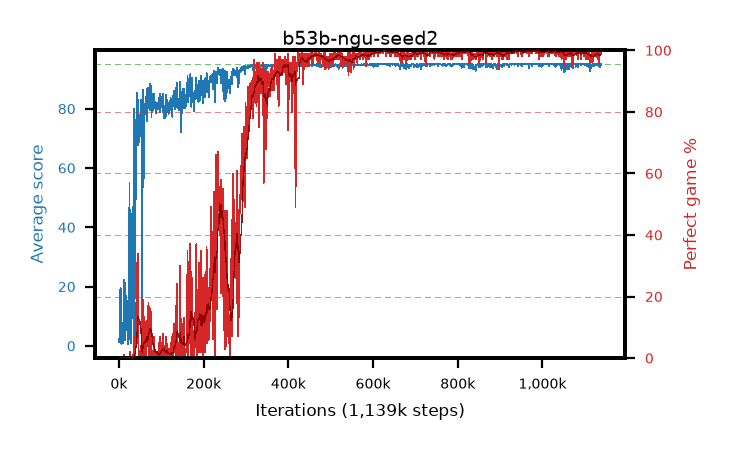
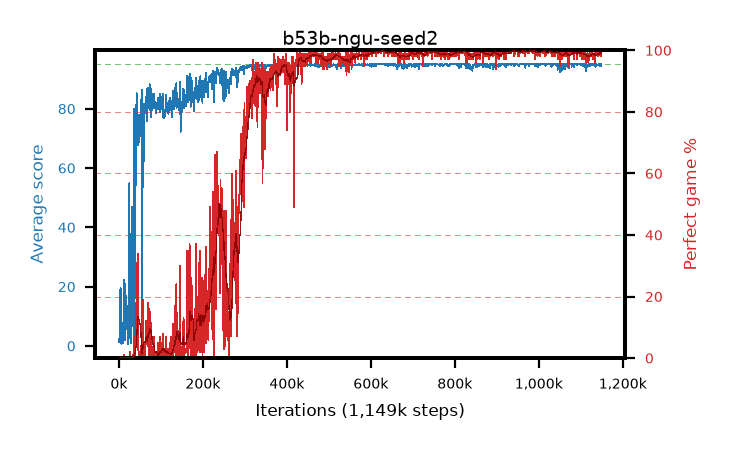
live pictures of 4 arm(s)

diff --git a/results/b53d-ngu-seed4/b53d-ngu-seed4.md b/results/b53d-ngu-seed4/b53d-ngu-seed4.md
@@ -1,6 +1,6 @@
 # b53d-ngu-seed4
 
-step **1,149,000** · 1149 evals · trailing **94.76** · peak **94.94** @1,040,000 · sef **73.7** · best30 **99.7** @1,024,000
+step **1,159,000** · 1159 evals · trailing **94.73** · peak **94.94** @1,040,000 · sef **73.9** · best30 **99.7** @1,024,000
 
 ## Config
 
@@ -80,15 +80,15 @@ step **1,149,000** · 1149 evals · trailing **94.76** · peak **94.94** @1,040,
 | 2000 | 2.39 | 1.47 | 0.0 | 8.0 | 1.286 | 0.0 | 0.4 |
 | 3000 | 6.99 | 3.31 | 0.0 | 25.0 | 5.34 | 0.0 | 0.4 |
 | ... | ... | ... | ... | ... | ... | ... | ... |
-| 1138000 | 94.97 | 94.76 | 92.0 | 95.0 | 192.686 | 99.0 | 0.4 |
-| 1139000 | 94.63 | 94.74 | 58.0 | 95.0 | 192.335 | 99.0 | 0.4 |
-| 1140000 | 94.61 | 94.73 | 56.0 | 95.0 | 192.272 | 99.0 | 0.4 |
-| 1141000 | 95.0 | 94.73 | 95.0 | 95.0 | 193.71 | 100.0 | 0.4 |
-| 1142000 | 95.0 | 94.76 | 95.0 | 95.0 | 193.697 | 100.0 | 0.4 |
-| 1143000 | 95.0 | 94.76 | 95.0 | 95.0 | 193.711 | 100.0 | 0.4 |
-| 1144000 | 94.26 | 94.74 | 21.0 | 95.0 | 191.925 | 99.0 | 0.4 |
-| 1145000 | 95.0 | 94.74 | 95.0 | 95.0 | 193.719 | 100.0 | 0.4 |
-| 1146000 | 95.0 | 94.76 | 95.0 | 95.0 | 193.717 | 100.0 | 0.4 |
-| 1147000 | 94.99 | 94.76 | 94.0 | 95.0 | 192.643 | 99.0 | 0.4 |
 | 1148000 | 94.95 | 94.75 | 90.0 | 95.0 | 192.656 | 99.0 | 0.4 |
 | 1149000 | 95.0 | 94.76 | 95.0 | 95.0 | 193.69 | 100.0 | 0.4 |
+| 1150000 | 94.59 | 94.75 | 54.0 | 95.0 | 192.301 | 99.0 | 0.4 |
+| 1151000 | 95.0 | 94.77 | 95.0 | 95.0 | 193.703 | 100.0 | 0.4 |
+| 1152000 | 94.47 | 94.77 | 42.0 | 95.0 | 192.186 | 99.0 | 0.4 |
+| 1153000 | 94.97 | 94.79 | 92.0 | 95.0 | 192.632 | 99.0 | 0.4 |
+| 1154000 | 93.77 | 94.78 | 18.0 | 95.0 | 189.354 | 97.0 | 0.4 |
+| 1155000 | 94.85 | 94.8 | 80.0 | 95.0 | 192.522 | 99.0 | 0.4 |
+| 1156000 | 94.54 | 94.79 | 51.0 | 95.0 | 191.216 | 98.0 | 0.4 |
+| 1157000 | 94.17 | 94.76 | 19.0 | 95.0 | 190.799 | 98.0 | 0.4 |
+| 1158000 | 94.57 | 94.75 | 52.0 | 95.0 | 192.274 | 99.0 | 0.4 |
+| 1159000 | 94.51 | 94.73 | 46.0 | 95.0 | 192.164 | 99.0 | 0.4 |

diff --git a/results/b53b-ngu-seed2/b53b-ngu-seed2.md b/results/b53b-ngu-seed2/b53b-ngu-seed2.md
@@ -1,6 +1,6 @@
 # b53b-ngu-seed2
 
-step **1,139,000** · 1139 evals · trailing **94.68** · peak **94.96** @1,028,000 · sef **72.6** · best30 **99.8** @983,000
+step **1,149,000** · 1149 evals · trailing **94.8** · peak **94.96** @1,028,000 · sef **72.8** · best30 **99.8** @983,000
 
 ## Config
 
@@ -80,15 +80,15 @@ step **1,139,000** · 1139 evals · trailing **94.68** · peak **94.96** @1,028,
 | 2000 | 6.04 | 3.73 | 0.0 | 19.0 | 3.28 | 0.0 | 0.4 |
 | 3000 | 18.06 | 8.5 | 1.0 | 40.0 | 15.298 | 0.0 | 0.4 |
 | ... | ... | ... | ... | ... | ... | ... | ... |
-| 1128000 | 94.83 | 94.69 | 78.0 | 95.0 | 192.532 | 99.0 | 0.4 |
-| 1129000 | 94.99 | 94.69 | 94.0 | 95.0 | 192.639 | 99.0 | 0.4 |
-| 1130000 | 94.75 | 94.69 | 86.0 | 95.0 | 190.377 | 97.0 | 0.4 |
-| 1131000 | 94.99 | 94.69 | 94.0 | 95.0 | 192.653 | 99.0 | 0.4 |
-| 1132000 | 94.59 | 94.68 | 60.0 | 95.0 | 190.164 | 97.0 | 0.4 |
-| 1133000 | 95.0 | 94.68 | 95.0 | 95.0 | 193.698 | 100.0 | 0.4 |
-| 1134000 | 94.55 | 94.68 | 70.0 | 95.0 | 189.227 | 96.0 | 0.4 |
-| 1135000 | 94.16 | 94.65 | 11.0 | 95.0 | 191.818 | 99.0 | 0.4 |
-| 1136000 | 94.43 | 94.63 | 38.0 | 95.0 | 192.111 | 99.0 | 0.4 |
-| 1137000 | 95.0 | 94.66 | 95.0 | 95.0 | 193.712 | 100.0 | 0.4 |
 | 1138000 | 95.0 | 94.66 | 95.0 | 95.0 | 193.694 | 100.0 | 0.4 |
 | 1139000 | 94.7 | 94.68 | 65.0 | 95.0 | 192.405 | 99.0 | 0.4 |
+| 1140000 | 94.59 | 94.67 | 54.0 | 95.0 | 192.236 | 99.0 | 0.4 |
+| 1141000 | 94.96 | 94.67 | 92.0 | 95.0 | 191.625 | 98.0 | 0.4 |
+| 1142000 | 94.93 | 94.69 | 91.0 | 95.0 | 191.571 | 98.0 | 0.4 |
+| 1143000 | 94.97 | 94.76 | 92.0 | 95.0 | 192.674 | 99.0 | 0.4 |
+| 1144000 | 95.0 | 94.79 | 95.0 | 95.0 | 193.705 | 100.0 | 0.4 |
+| 1145000 | 95.0 | 94.79 | 95.0 | 95.0 | 193.712 | 100.0 | 0.4 |
+| 1146000 | 95.0 | 94.79 | 95.0 | 95.0 | 193.702 | 100.0 | 0.4 |
+| 1147000 | 94.27 | 94.79 | 22.0 | 95.0 | 191.946 | 99.0 | 0.4 |
+| 1148000 | 95.0 | 94.8 | 95.0 | 95.0 | 193.697 | 100.0 | 0.4 |
+| 1149000 | 94.91 | 94.8 | 88.0 | 95.0 | 191.561 | 98.0 | 0.4 |

diff --git a/results/b53c-ngu-seed3/b53c-ngu-seed3.md b/results/b53c-ngu-seed3/b53c-ngu-seed3.md
@@ -1,6 +1,6 @@
 # b53c-ngu-seed3
 
-step **1,139,000** · 1139 evals · trailing **94.71** · peak **94.93** @574,000 · sef **79.9** · best30 **99.6** @585,000
+step **1,149,000** · 1149 evals · trailing **94.69** · peak **94.93** @574,000 · sef **80.1** · best30 **99.6** @585,000
 
 ## Config
 
@@ -80,15 +80,15 @@ step **1,139,000** · 1139 evals · trailing **94.71** · peak **94.93** @574,00
 | 2000 | 6.19 | 3.38 | 0.0 | 14.0 | 2.147 | 0.0 | 0.4 |
 | 3000 | 12.02 | 6.26 | 1.0 | 18.0 | 7.496 | 0.0 | 0.4 |
 | ... | ... | ... | ... | ... | ... | ... | ... |
-| 1128000 | 94.97 | 94.74 | 92.0 | 95.0 | 192.662 | 99.0 | 0.4 |
-| 1129000 | 94.84 | 94.76 | 79.0 | 95.0 | 192.503 | 99.0 | 0.4 |
-| 1130000 | 94.98 | 94.76 | 93.0 | 95.0 | 192.649 | 99.0 | 0.4 |
-| 1131000 | 94.4 | 94.75 | 69.0 | 95.0 | 188.95 | 96.0 | 0.4 |
-| 1132000 | 94.77 | 94.77 | 72.0 | 95.0 | 192.445 | 99.0 | 0.4 |
-| 1133000 | 94.98 | 94.77 | 93.0 | 95.0 | 192.648 | 99.0 | 0.4 |
-| 1134000 | 94.83 | 94.76 | 82.0 | 95.0 | 191.449 | 98.0 | 0.4 |
-| 1135000 | 94.21 | 94.74 | 18.0 | 95.0 | 190.828 | 98.0 | 0.4 |
-| 1136000 | 94.69 | 94.73 | 82.0 | 95.0 | 190.289 | 97.0 | 0.4 |
-| 1137000 | 93.8 | 94.7 | 11.0 | 95.0 | 189.369 | 97.0 | 0.4 |
 | 1138000 | 94.98 | 94.71 | 94.0 | 95.0 | 191.604 | 98.0 | 0.4 |
 | 1139000 | 94.21 | 94.71 | 52.0 | 95.0 | 189.803 | 97.0 | 0.4 |
+| 1140000 | 93.87 | 94.68 | 15.0 | 95.0 | 187.426 | 95.0 | 0.4 |
+| 1141000 | 94.9 | 94.69 | 89.0 | 95.0 | 191.525 | 98.0 | 0.4 |
+| 1142000 | 95.0 | 94.72 | 95.0 | 95.0 | 193.72 | 100.0 | 0.4 |
+| 1143000 | 93.44 | 94.71 | 16.0 | 95.0 | 188.028 | 96.0 | 0.4 |
+| 1144000 | 94.81 | 94.7 | 88.0 | 95.0 | 190.383 | 97.0 | 0.4 |
+| 1145000 | 94.54 | 94.69 | 82.0 | 95.0 | 186.981 | 94.0 | 0.4 |
+| 1146000 | 94.69 | 94.7 | 64.0 | 95.0 | 192.358 | 99.0 | 0.4 |
+| 1147000 | 94.97 | 94.7 | 92.0 | 95.0 | 192.681 | 99.0 | 0.4 |
+| 1148000 | 95.0 | 94.7 | 95.0 | 95.0 | 193.714 | 100.0 | 0.4 |
+| 1149000 | 94.89 | 94.69 | 87.0 | 95.0 | 191.535 | 98.0 | 0.4 |
